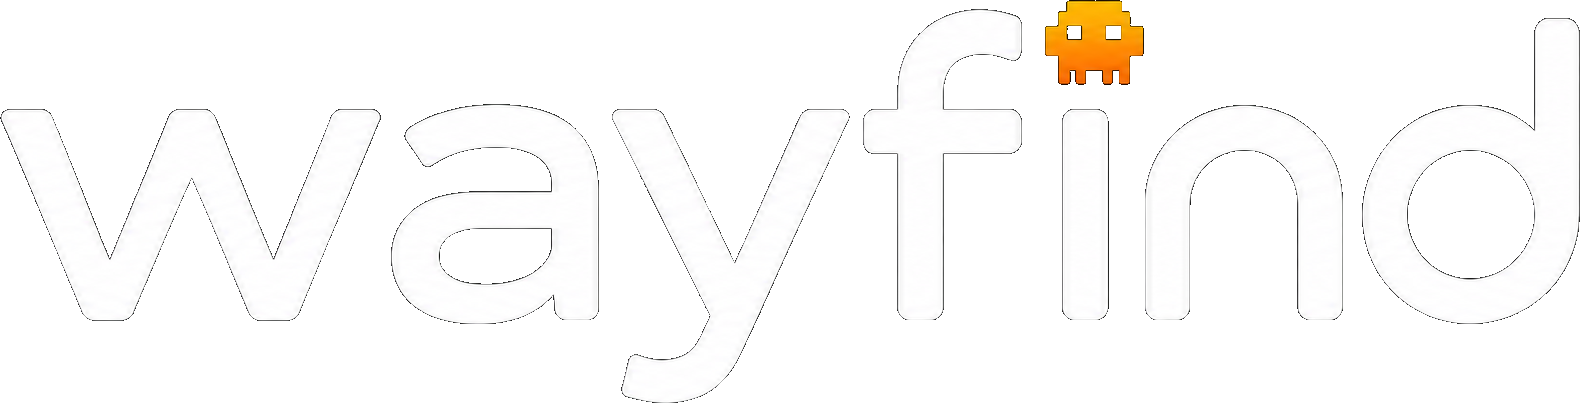
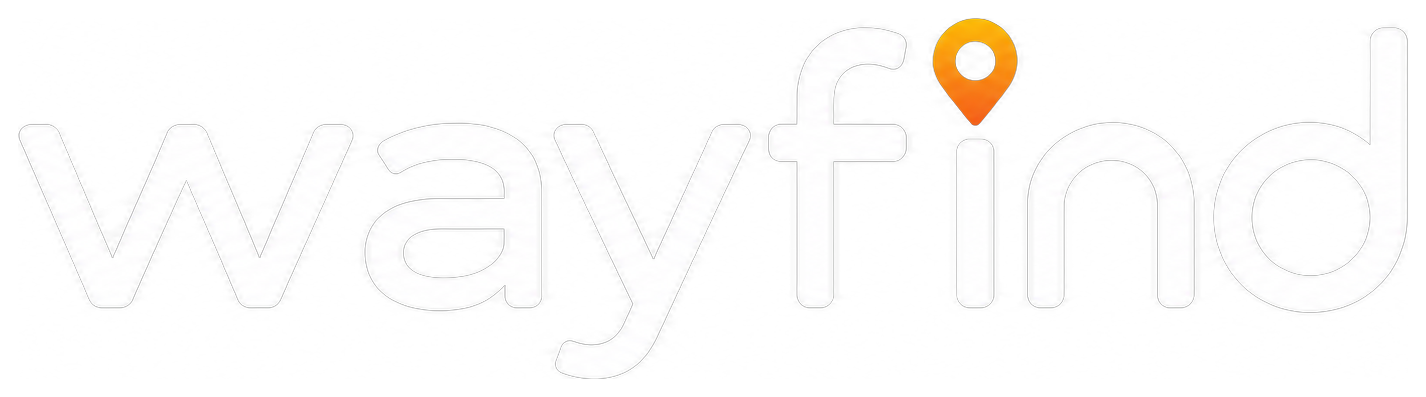
Add files via upload

diff --git a/app/page.js b/app/page.js
@@ -4,7 +4,7 @@ import { CATEGORIES, SUBFILTERS, VIBES, getLoader, geocodeCity, reverseGeocode, 
 import { supabase } from "../lib/supabase";
 import MapView from "./components/MapView";
 
-const BUILD = "v5.2";
+const BUILD = "v5.5";
 const C = {
   bg: "#0D1117", panel: "#161B22", card: "#1C2230", border: "#2D3748",
   accent: "#F97316", adim: "rgba(249,115,22,.15)", blue: "#38BDF8", green: "#22C55E",
@@ -691,6 +691,43 @@ function whatToWear(p, weather) {
     else wx = `Comfortable ${temp}° out right now.`;
   }
   return { dress, wx };
+}
+
+// Category-aware version of the dress card. Keeps "what to wear" only where weather
+// or vibe actually matters (beach, outdoor, nightlife). For food it returns a useful
+// data-true line from price and meal type instead, since dress advice reads gimmicky
+// for a restaurant. Granular Google attributes (groups, cuisine) are not in our data,
+// so this stays honest rather than inventing "good for groups, burgers".
+function placeVibe(p, weather) {
+  if (!p) return null;
+  const cat = primaryCategory(p);
+  if (cat === "beach" || cat === "attractions" || cat === "nightlife") {
+    const w = whatToWear(p, weather);
+    return w ? { icon: "👕", title: "What to wear", body: w.dress + (w.wx ? " " + w.wx : "") } : null;
+  }
+  if (cat === "food") {
+    const t = ((p.type || "") + " " + (Array.isArray(p.types) ? p.types.join(" ") : "")).toLowerCase();
+    const pn = p.priceNum;
+    let lead = "";
+    if (/breakfast|brunch/.test(t)) lead = "Good for breakfast and brunch.";
+    else if (/coffee|cafe/.test(t)) lead = "An easy spot for coffee and a casual sit.";
+    else if (/bakery/.test(t)) lead = "A bakery, good for a quick grab or a treat.";
+    else if (/ice_cream|dessert|gelato|frozen_yogurt/.test(t)) lead = "A dessert stop.";
+    else if (/fast_food|meal_takeaway/.test(t)) lead = "Quick and casual.";
+    else if (pn === 4) lead = "An upscale spot for a special-occasion meal.";
+    else if (pn === 3) lead = "A nicer sit-down meal.";
+    else if (pn === 2) lead = "An easy meal out.";
+    else if (pn === 1) lead = "Casual and budget-friendly.";
+    else if (p.rating != null && p.rating >= 4.5) lead = "A consistently well-loved local spot.";
+    let extra = "";
+    if (/breakfast|brunch|coffee|cafe|bakery|ice_cream|dessert/.test(t)) {
+      if (pn === 4) extra = " On the upscale side.";
+      else if (pn === 1) extra = " Easy on the wallet.";
+    }
+    const body = (lead + extra).trim();
+    return body ? { icon: "🍽️", title: "Good to know", body } : null;
+  }
+  return null;
 }
 
 function todayHours(extra) {
@@ -2548,7 +2585,11 @@ function PageInner() {
               </div>
             )}
           </div>
-          <button onClick={submitSearch} style={{ background: C.accent, border: "none", borderRadius: 14, color: "#fff", fontSize: 14, fontWeight: 800, padding: "0 18px", cursor: "pointer", whiteSpace: "nowrap" }}>Wayfind It</button>
+          <button onClick={submitSearch} style={{ flexShrink: 0, display: "inline-flex", alignItems: "center", gap: 7, background: "linear-gradient(180deg, #FB923C 0%, #F97316 52%, #EA580C 100%)", border: "none", borderRadius: 14, color: "#fff", fontSize: 14, fontWeight: 800, padding: "0 14px", cursor: "pointer", whiteSpace: "nowrap", boxShadow: "0 4px 14px rgba(249,115,22,.45)" }}>
+            <svg width="13" height="16" viewBox="0 0 24 24" fill="#fff" aria-hidden="true" style={{ display: "block" }}><path fillRule="evenodd" clipRule="evenodd" d="M12 2C7.58 2 4 5.58 4 10c0 5.25 6.94 11.4 7.24 11.66a1.15 1.15 0 0 0 1.52 0C13.06 21.4 20 15.25 20 10c0-4.42-3.58-8-8-8Zm0 5.5a2.5 2.5 0 1 0 0 5 2.5 2.5 0 0 0 0-5Z" /></svg>
+            Wayfind It
+            <svg width="15" height="15" viewBox="0 0 24 24" fill="none" stroke="#fff" strokeWidth="2.4" strokeLinecap="round" strokeLinejoin="round" aria-hidden="true" style={{ display: "block" }}><path d="M5 12h13M13 6l6 6-6 6" /></svg>
+          </button>
         </div>
       </div>
 
@@ -2617,6 +2658,16 @@ function PageInner() {
                     <button onClick={() => setMapMode("places")} style={{ padding: "7px 15px", fontSize: 13, fontWeight: 800, border: "none", cursor: "pointer", background: mapMode === "places" ? C.accent : "transparent", color: mapMode === "places" ? "#fff" : C.light }}>Places</button>
                     <button onClick={() => { setMapMode("events"); if (!events) loadEvents(); }} style={{ padding: "7px 15px", fontSize: 13, fontWeight: 800, border: "none", cursor: "pointer", background: mapMode === "events" ? C.accent : "transparent", color: mapMode === "events" ? "#fff" : C.light }}>🎟️ Events</button>
                   </div>
+                  {mapMode === "places" && (
+                    <div style={{ position: "absolute", top: 12, right: 12, zIndex: 5, background: "rgba(22,27,34,.82)", backdropFilter: "blur(8px)", WebkitBackdropFilter: "blur(8px)", border: `1px solid ${C.border}`, borderRadius: 12, padding: "8px 10px", boxShadow: "0 4px 16px rgba(0,0,0,.45)", display: "flex", flexDirection: "column", gap: 5 }}>
+                      {[["#FBBF24", "Top pick"], ["#4C8DFF", "Open"], ["#5B6675", "Closed"]].map((row) => (
+                        <div key={row[1]} style={{ display: "flex", alignItems: "center", gap: 7 }}>
+                          <span style={{ width: 9, height: 9, borderRadius: "50%", background: row[0], flexShrink: 0, boxShadow: "0 0 0 1px rgba(0,0,0,.3)" }} />
+                          <span style={{ fontSize: 10.5, fontWeight: 700, color: C.light, whiteSpace: "nowrap" }}>{row[1]}</span>
+                        </div>
+                      ))}
+                    </div>
+                  )}
                   {mapMode === "events" && (
                     <div style={{ position: "absolute", left: 0, right: 0, bottom: 26, zIndex: 5, padding: "0 12px" }}>
                       {!eventsLoading && !eventsUnavailable && (
@@ -2769,8 +2820,8 @@ function PageInner() {
                     <div style={{ padding: 16 }}>
                       <div style={{ fontSize: 22, fontWeight: 800, color: C.text, lineHeight: 1.2 }}>{heroPick.name}</div>
                       <div style={{ display: "flex", alignItems: "center", gap: 8, flexWrap: "wrap", marginTop: 8 }}>
-                        {heroSl && <span style={{ fontSize: 20, fontWeight: 900, color: C.accent }}>{heroSl.s}</span>}
-                        {heroSl && <span style={{ fontSize: 14, fontWeight: 700, color: C.text }}>{heroSl.word}</span>}
+                        {heroSl && <span style={{ fontSize: 14, fontWeight: 800, color: C.text }}>{heroSl.word}</span>}
+                        {heroSl && <span style={{ fontSize: 11.5, fontWeight: 700, color: C.muted }}>{heroSl.s}/10</span>}
                         {heroPick.rating && <span style={{ color: "#F59E0B", fontSize: 13 }}>★ {heroPick.rating}</span>}
                         {heroPick.reviews != null && <span style={{ fontSize: 12, color: C.muted }}>· {heroPick.reviews.toLocaleString()} reviews</span>}
                         {heroPick.openNow === true && <span style={{ fontSize: 12, fontWeight: 700, color: C.green }}>· Open now</span>}
@@ -2921,7 +2972,7 @@ function PageInner() {
         {screen === "surprise" && (() => {
           const p = surprisePick;
           const sl = p ? scoreLabel(p.wfScore) : null;
-          const badges = p ? experienceBadges(p) : [];
+          const badges = p ? experienceBadges(p).slice(0, 2) : [];
           // v4.6: capitalized identity + state-aware subtitle so a closed pick is never framed as "right now".
           const period = (() => { const hr = new Date().getHours(); return hr < 12 ? "Morning" : hr < 17 ? "Afternoon" : "Evening"; })();
           const sOpen = !!(p && p.openNow === true);
@@ -2964,14 +3015,14 @@ function PageInner() {
               )}
               {!surpriseLoading && p && (
                 <div>
-                  <div onClick={() => openDetail(p)} style={{ background: C.card, border: `1px solid ${C.accent}`, borderRadius: 16, overflow: "hidden", cursor: "pointer" }}>
-                    <FallbackImg src={p.photo} icon="🍽️" style={{ width: "100%", height: 200, objectFit: "cover", display: "block" }} />
+                  <div onClick={() => openDetail(p)} style={{ background: C.card, border: `1px solid ${C.border}`, borderRadius: 16, overflow: "hidden", cursor: "pointer" }}>
+                    <FallbackImg src={p.photo} icon="🍽️" style={{ width: "100%", height: 230, objectFit: "cover", display: "block" }} />
                     <div style={{ padding: 16 }}>
                       <div style={{ fontSize: 20, fontWeight: 800, color: C.text }}>{p.name}</div>
                       {p.address && <div style={{ fontSize: 12, color: C.muted, marginTop: 4, lineHeight: 1.4 }}>📍 {p.address}</div>}
                       <div style={{ display: "flex", alignItems: "center", gap: 8, flexWrap: "wrap", marginTop: 8 }}>
-                        {sl && <span style={{ fontSize: 20, fontWeight: 900, color: C.accent }}>{sl.s}</span>}
-                        {sl && <span style={{ fontSize: 14, fontWeight: 700, color: C.text }}>{sl.word}</span>}
+                        {sl && <span style={{ fontSize: 14, fontWeight: 800, color: C.text }}>{sl.word}</span>}
+                        {sl && <span style={{ fontSize: 11.5, fontWeight: 700, color: C.muted }}>{sl.s}/10</span>}
                         {p.rating && <span style={{ color: "#F59E0B", fontSize: 13 }}>★ {p.rating}</span>}
                         {p.openNow === true && <span style={{ fontSize: 12, fontWeight: 700, color: C.green }}>Open now</span>}
                         {p.openNow === false && <span style={{ fontSize: 12, fontWeight: 700, color: p.nextOpen && p.nextOpen.today ? C.gold : C.red }}>{p.nextOpen && p.nextOpen.today ? p.nextOpen.label : "Closed today"}</span>}
@@ -2995,7 +3046,7 @@ function PageInner() {
                     ) : (
                       <button onClick={() => openDetail(p)} style={{ flex: 1, background: "transparent", color: C.light, border: `1px solid ${C.border}`, borderRadius: 12, fontSize: 13.5, fontWeight: 700, padding: "12px 0", cursor: "pointer" }}>See details</button>
                     )}
-                    <button onClick={() => setSurprisePick(pickSurprise(surprisePool))} style={{ flex: 1, background: "transparent", color: C.accent, border: `1.5px solid ${C.accent}`, borderRadius: 12, fontSize: 13.5, fontWeight: 800, padding: "12px 0", cursor: "pointer" }}>✨ Try another</button>
+                    <button onClick={() => setSurprisePick(pickSurprise(surprisePool))} style={{ flex: 1, background: "transparent", color: C.light, border: `1px solid ${C.border}`, borderRadius: 12, fontSize: 13.5, fontWeight: 800, padding: "12px 0", cursor: "pointer" }}>✨ Try another</button>
                   </div>
                   {/* v4.6: backup picks split into Open now and For later so closed spots are labeled, not hidden in prime slots. */}
                   {(() => {
@@ -3376,10 +3427,10 @@ function PageInner() {
                 ))}
               </div>
 
-              {(() => { const w = whatToWear(detail, weather); if (!w) return null; return (
+              {(() => { const v = placeVibe(detail, weather); if (!v) return null; return (
                 <div style={{ background: C.card, border: `1px solid ${C.border}`, borderRadius: 14, padding: "12px 14px", marginBottom: 14 }}>
-                  <div style={{ fontSize: 13, fontWeight: 800, color: C.text, marginBottom: 6 }}>👕 What to wear</div>
-                  <div style={{ fontSize: 13, color: C.light, lineHeight: 1.5 }}>{w.dress}{w.wx ? " " + w.wx : ""}</div>
+                  <div style={{ fontSize: 13, fontWeight: 800, color: C.text, marginBottom: 6 }}>{v.icon} {v.title}</div>
+                  <div style={{ fontSize: 13, color: C.light, lineHeight: 1.5 }}>{v.body}</div>
                 </div>
               ); })()}
 